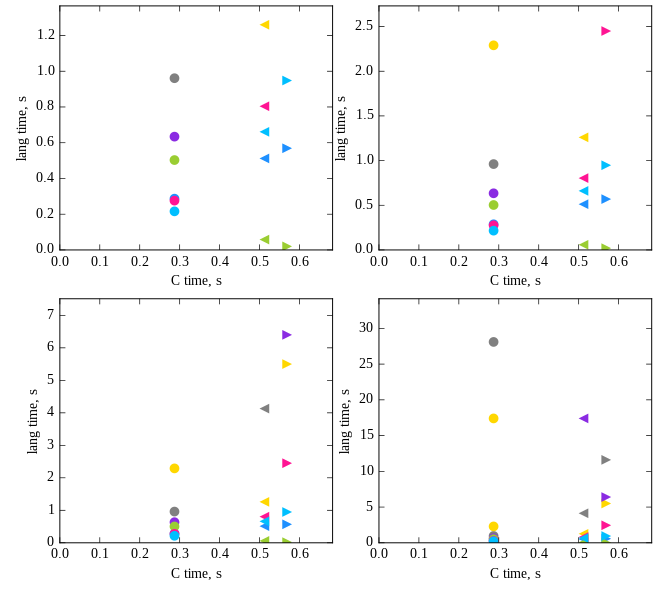
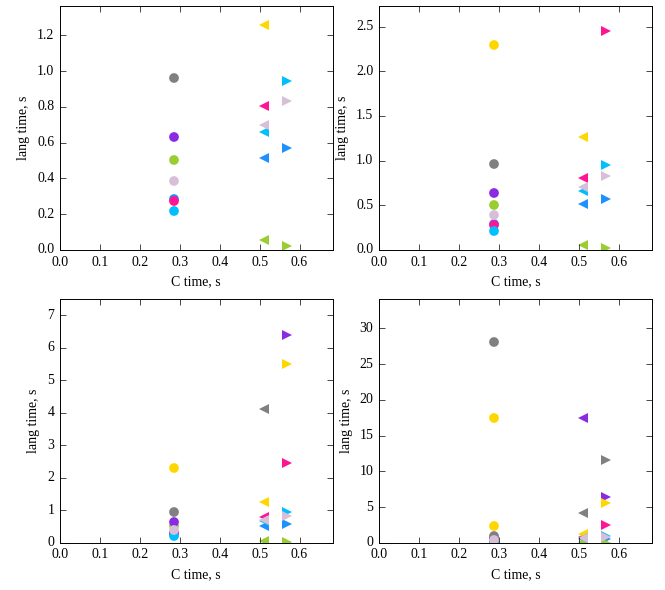
points for C# are added to the plot

diff --git a/results.py b/results.py
@@ -13,10 +13,11 @@
 # Python 3.5.0
 # The Glorious Glasgow Haskell Compilation System, version 7.10.2
 # R version 3.2.2 (2015-08-14) -- "Fire Safety"
+# Mono C# compiler version 4.2.1.0
 set1 = {'generation': (0.287, {'C++': [0.216], 'Julia': [0.276], 'Pypy':
-    [0.503], 'Python': [17.4, 2.29], 'Haskell': [0.634], 'R': [28.1, 0.961]}),
-    'output': (0.569, {'C++': [0.948], 'Julia': [2.45], 'Pypy': [0.02],
-        'Python': [5.5], 'Haskell': [6.4], 'R': [11.6]}), 'input': (0.512,
-            {'C++': [0.661], 'Julia': [0.804], 'Pypy': [0.058], 'Python':
-                [1.26], 'Haskell': [17.4], 'R': [4.13]})}
+    [0.503], 'Python': [17.4, 2.29], 'Haskell': [0.634], 'R': [28.1, 0.961],
+    'C#': [0.386]}), 'output': (0.569, {'C++': [0.948], 'Julia': [2.45], 'Pypy':
+        [0.02], 'Python': [5.5], 'Haskell': [6.4], 'R': [11.6], 'C#': [0.832]}),
+    'input': (0.512, {'C++': [0.661], 'Julia': [0.804], 'Pypy': [0.058],
+        'Python': [1.26], 'Haskell': [17.4], 'R': [4.13], 'C#': [0.701]})}
 

diff --git a/plotResults.py b/plotResults.py
@@ -17,9 +17,10 @@ m = 1.2 # additional space in xlim is proportional to m - 1
 defaultstyle = {'markersize': ms, 'markeredgewidth': 0}
 
 # kwargs which define different style for different languages
-langstyle = {'C': {'color': 'DodgerBlue'}, 'C++': {'color': 'DeepSkyBlue'}, 'Julia':
-        {'color': 'DeepPink'}, 'Pypy': {'color': 'YellowGreen'}, 'Python': {'color':
-            'Gold'}, 'Haskell': {'color': 'BlueViolet'}, 'R' : {'color': 'Gray'}}
+langstyle = {'C': {'color': 'DodgerBlue'}, 'C++': {'color': 'DeepSkyBlue'},
+        'Julia': {'color': 'DeepPink'}, 'Pypy': {'color': 'YellowGreen'},
+        'Python': {'color': 'Gold'}, 'Haskell': {'color': 'BlueViolet'}, 'R' :
+        {'color': 'Gray'}, 'C#': {'color': 'Thistle'}}
 # kwargs which define different style for different tests
 teststyle = {'generation': {'marker': 'o'}, 'output': {'marker': '>'}, 'input':
         {'marker': '<'}}
